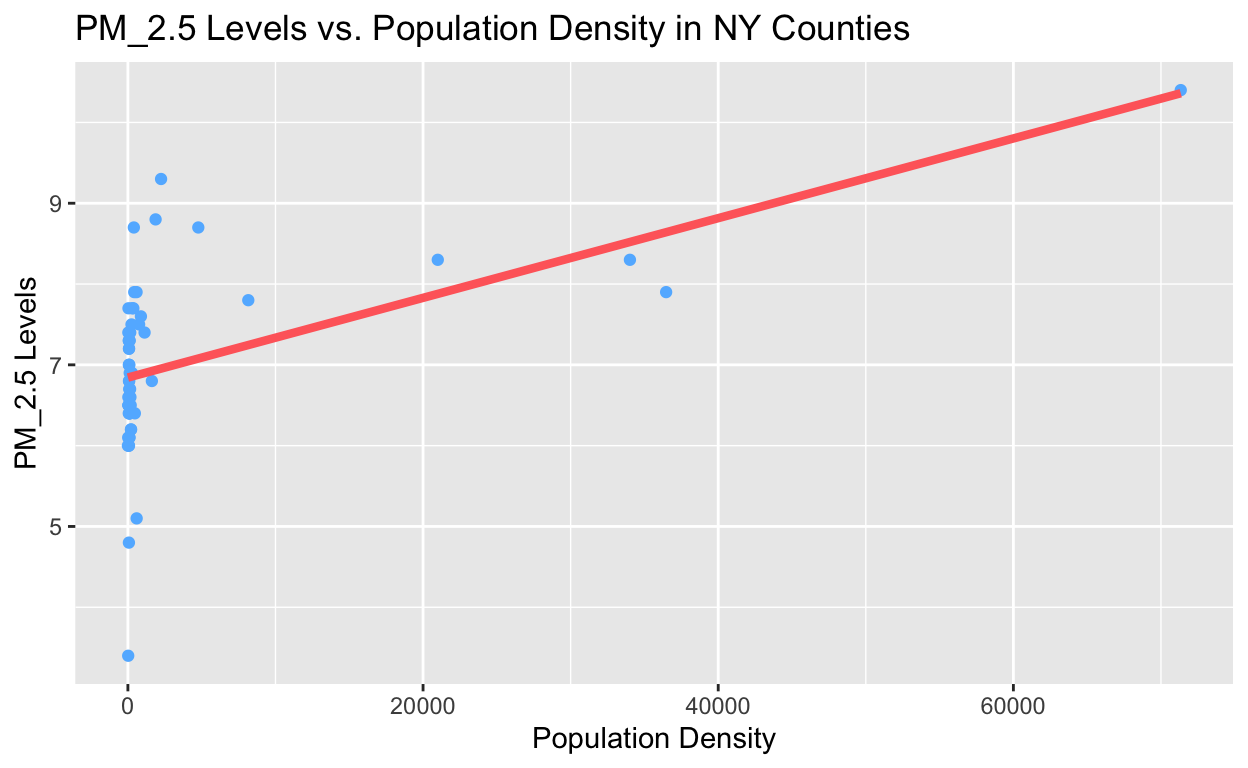
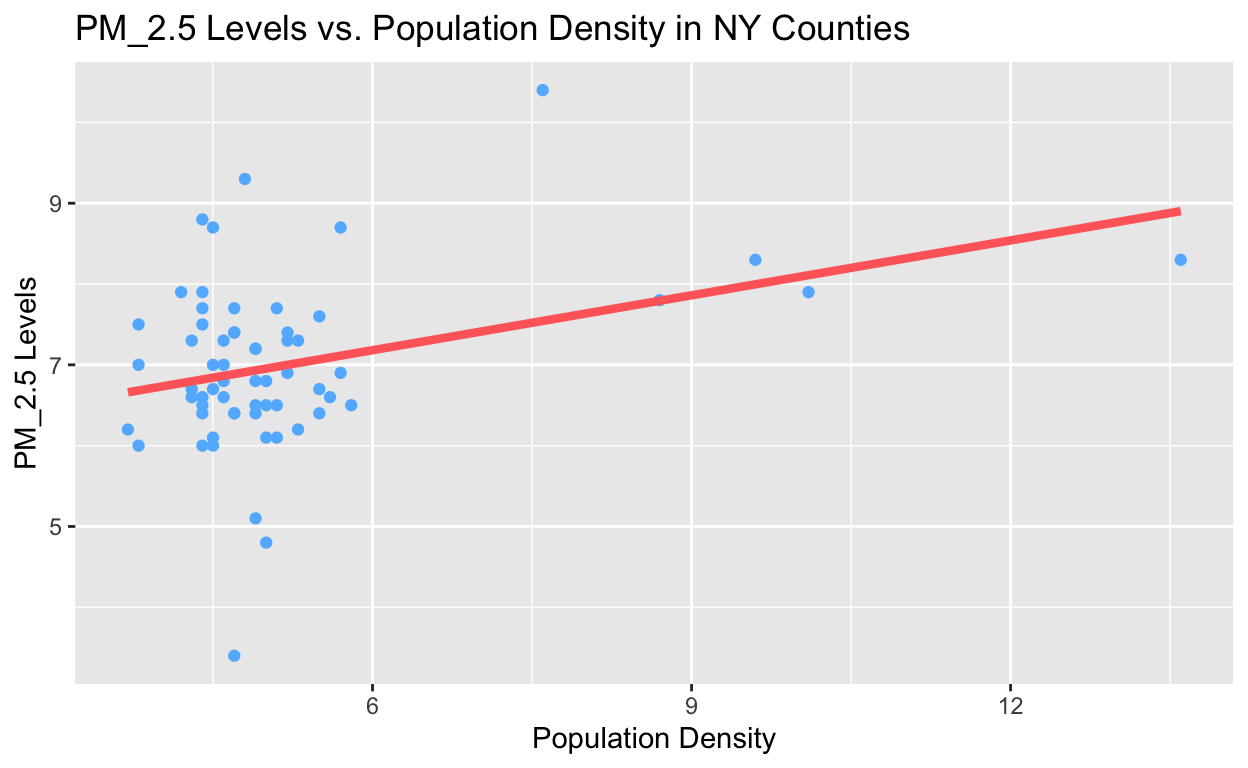
up to results- population density

diff --git a/index.html b/index.html
@@ -1526,7 +1526,7 @@ code span.wa { color: #5e5e5e; font-style: italic; } /* Warning */
 <li>Unemployment = The percentage of county that is unemployed.</li>
 <li>MedianIncome = The median income for the entire county, in dollars.</li>
 <li>CollegeDegree = The proportion of the population that holds a college-level degree or higher.</li>
-<li>PM_2.5 = The level of fine particles with diameters of less than 2.5 micrometers in parts per million. PM_2.5 is a common air pollutant.</li>
+<li>PM_2.5 = The level of fine particles with diameters of less than 2.5 micrometers in parts per million (ppm). PM_2.5 is a common air pollutant.</li>
 <li>Poverty = The percentage of the population that is in poverty.</li>
 <li>PopDensity = The population density of the county, measured in persons per square mile.</li>
 </ol>
@@ -1558,19 +1558,8 @@ code span.wa { color: #5e5e5e; font-style: italic; } /* Warning */
 </div>
 <p>Here, we can see that most of the PM_2.5 levels fall between 6 and 8 parts per million, with a few counties falling outside of this interval.</p>
 <p>Next, we will analyze the relationships between PM_2.5 and the other factors discussed above to determine the strengths and potential correlations between air pollution and socioeconomic factors.</p>
-<h2 id="visualization-1-distribution-of-pm_2.5">Visualization #1: Distribution of PM_2.5</h2>
-<div class="layout-chunk" data-layout="l-body">
-<div class="sourceCode">
-<pre class="sourceCode r"><code class="sourceCode r"><span><span class='va'>finalData</span> <span class='op'>|&gt;</span></span>
-<span>  <span class='fu'><a href='https://ggplot2.tidyverse.org/reference/ggplot.html'>ggplot</a></span><span class='op'>(</span>mapping <span class='op'>=</span> <span class='fu'><a href='https://ggplot2.tidyverse.org/reference/aes.html'>aes</a></span><span class='op'>(</span>x <span class='op'>=</span> <span class='va'>PM</span><span class='op'>)</span><span class='op'>)</span> <span class='op'>+</span></span>
-<span>  <span class='fu'><a href='https://ggplot2.tidyverse.org/reference/geom_histogram.html'>geom_histogram</a></span><span class='op'>(</span><span class='op'>)</span> <span class='op'>+</span></span>
-<span>  <span class='fu'><a href='https://ggplot2.tidyverse.org/reference/labs.html'>labs</a></span><span class='op'>(</span>x <span class='op'>=</span> <span class='st'>"PM_2.5 Levels"</span>,</span>
-<span>       y <span class='op'>=</span> <span class='st'>"Frequency"</span>,</span>
-<span>       title <span class='op'>=</span> <span class='st'>"Frequency of PM_2.5 Levels Across NY State (2022)"</span><span class='op'>)</span></span></code></pre>
-</div>
-<p><img src="index_files/figure-html5/unnamed-chunk-2-1.png" width="624" /></p>
-</div>
-<h2 id="visualization-2-pm_2.5-vs.-population-density">Visualization #2: PM_2.5 vs. Population Density</h2>
+<h2 id="results">Results</h2>
+<h3 id="pm_2.5-and-population-density">PM_2.5 and Population Density</h3>
 <div class="layout-chunk" data-layout="l-body">
 <div class="sourceCode">
 <pre class="sourceCode r"><code class="sourceCode r"><span><span class='co'>## population density prediction</span></span>
@@ -1585,7 +1574,7 @@ code span.wa { color: #5e5e5e; font-style: italic; } /* Warning */
 <span>       y <span class='op'>=</span> <span class='st'>"PM_2.5 Levels"</span>,</span>
 <span>       title <span class='op'>=</span> <span class='st'>"PM_2.5 Levels vs. Population Density in NY Counties"</span><span class='op'>)</span></span></code></pre>
 </div>
-<img src="index_files/figure-html5/unnamed-chunk-3-1.png" width="624" />
+<img src="index_files/figure-html5/unnamed-chunk-2-1.png" width="624" />
 <div class="sourceCode">
 <pre class="sourceCode r"><code class="sourceCode r"><span><span class='co'>## population density regression</span></span>
 <span></span>
@@ -1606,11 +1595,24 @@ Coefficients:
 </div>
 <pre><code>[1] 0.5197903</code></pre>
 </div>
-<h2 id="results-of-population-density-regression">Results of Population Density Regression</h2>
-<p>There appears to be a correlation between Population Density and PM_2.5 levels. There is a positive relationship between the two variables, as indicated by the line of best fit on the graph above. Generally, as population density increases, PM_2.5 levels also increase.</p>
-<p>This positive correlation between the two variables is further supported by the linear regression, which indicated an increase in PM_2.5 levels by 4.932e-05 ppm for each 1 unit increase in population density. This number is small, but this was expected as there is a large range in population density.</p>
+<p>By looking at the graph, we can see that there appears to be a correlation between Population Density and PM_2.5 levels. There is a positive relationship between the two variables, as indicated by the line of best fit on the graph above. Generally, as population density increases, PM_2.5 levels also increase.</p>
+<p>The regression further supports this observation. The correlation coefficient for this regression is 4.932e-05, which means that as population density increases by 1 unit (1 person per square mile), PM_2.5 levels increase by 4.932e-05 ppm. This number is small, but this was expected as there is a large range in population density.</p>
 <p>Finally, the correlation coefficient between the two variables was calculated to be about 0.520, which indicates a moderate association between the two variables.</p>
-<p>These findings support my predictions, as I predicted that there would be a positive correlation between the two variables.</p>
+<h3 id="pm_2.5-and-unemployment">PM_2.5 and Unemployment</h3>
+<div class="layout-chunk" data-layout="l-body">
+<div class="sourceCode">
+<pre class="sourceCode r"><code class="sourceCode r"><span><span class='va'>finalData</span> <span class='op'>|&gt;</span></span>
+<span>  <span class='fu'><a href='https://ggplot2.tidyverse.org/reference/ggplot.html'>ggplot</a></span><span class='op'>(</span><span class='fu'><a href='https://ggplot2.tidyverse.org/reference/aes.html'>aes</a></span><span class='op'>(</span>x <span class='op'>=</span> <span class='va'>Unemployment</span>,</span>
+<span>             y <span class='op'>=</span> <span class='va'>PM</span><span class='op'>)</span><span class='op'>)</span> <span class='op'>+</span></span>
+<span>  <span class='fu'><a href='https://ggplot2.tidyverse.org/reference/geom_point.html'>geom_point</a></span><span class='op'>(</span>color <span class='op'>=</span> <span class='st'>"steelblue1"</span><span class='op'>)</span> <span class='op'>+</span></span>
+<span>  <span class='fu'><a href='https://ggplot2.tidyverse.org/reference/geom_smooth.html'>geom_smooth</a></span><span class='op'>(</span>method <span class='op'>=</span> <span class='st'>"lm"</span>, se <span class='op'>=</span> <span class='cn'>FALSE</span>, </span>
+<span>              color <span class='op'>=</span> <span class='st'>"indianred1"</span>, size <span class='op'>=</span> <span class='fl'>1.5</span><span class='op'>)</span> <span class='op'>+</span></span>
+<span>  <span class='fu'><a href='https://ggplot2.tidyverse.org/reference/labs.html'>labs</a></span><span class='op'>(</span>x <span class='op'>=</span> <span class='st'>"Population Density"</span>,</span>
+<span>       y <span class='op'>=</span> <span class='st'>"PM_2.5 Levels"</span>,</span>
+<span>       title <span class='op'>=</span> <span class='st'>"PM_2.5 Levels vs. Population Density in NY Counties"</span><span class='op'>)</span></span></code></pre>
+</div>
+<p><img src="index_files/figure-html5/unnamed-chunk-3-1.png" width="624" /></p>
+</div>
 <div class="sourceCode" id="cb3"><pre class="sourceCode r distill-force-highlighting-css"><code class="sourceCode r"></code></pre></div>
 <!--radix_placeholder_article_footer-->
 <!--/radix_placeholder_article_footer-->
